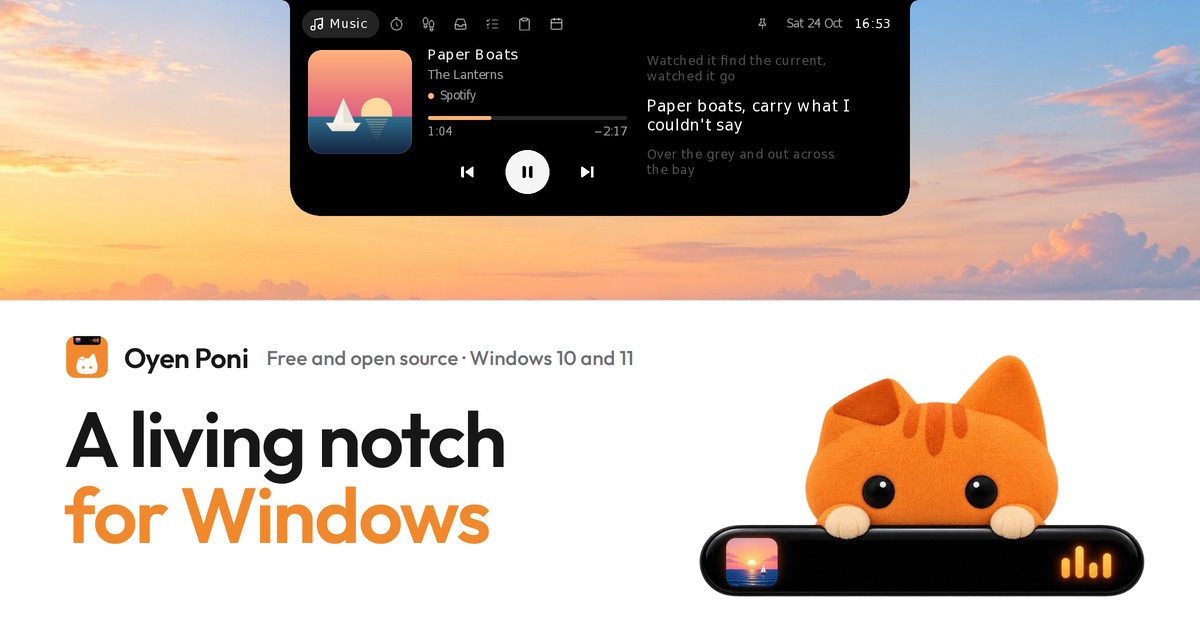
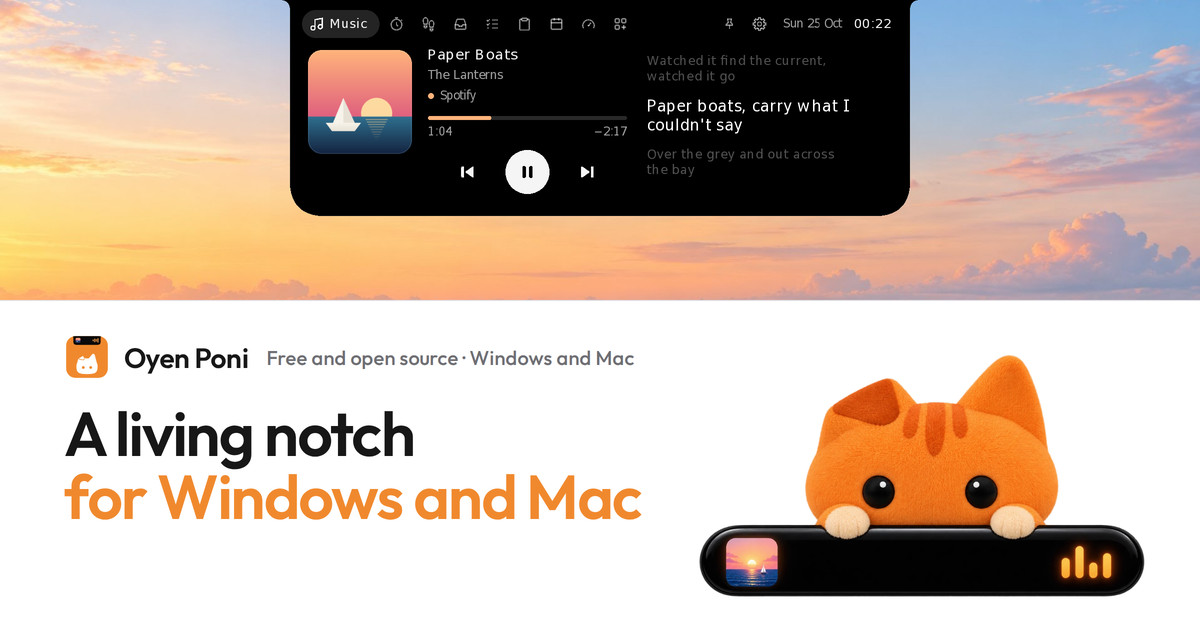
Website and README: Oyen Poni for Windows and Mac (#53)
The page, its share card and the README now say "for Windows and Mac"
instead of Windows alone, now that every release carries the Mac app.

- Website: title, description and link previews name both; the hero says
  Windows 10 and 11, and macOS 14 or later, and that Oyenza money in and
  bills are on Windows. A new "On a Mac, it wraps the notch" section right
  after the hero shows the Mac app's own renders (music, timer and clock
  around a MacBook's notch, the open Music and Today pages below it, in
  Classic and Oyen), what the Mac has and what isn't there yet, and a
  Download for Mac button. Install gets Windows and Mac steps side by side.
  "Your data stays on your PC" becomes "on your computer".
- Share card redrawn ("A living notch for Windows and Mac"), og:image and
  twitter:image ?v=2.
- tools/site_shots.py mac <mac-renders>: cuts the Mac pictures from the mac
  workflow's renders into site/assets/shots/mac/<theme>/.
- README: the tagline names both systems (and drops "your steps", which
  aren't live yet), an "On a Mac" section with the same pictures, Windows
  and Mac install sections, how to build and render on a Mac, and the Mac
  log path in Status.

diff --git a/site/index.html b/site/index.html
@@ -3,8 +3,8 @@
 <head>
 <meta charset="utf-8">
 <meta name="viewport" content="width=device-width, initial-scale=1, viewport-fit=cover">
-<title>Oyen Poni · A living notch for Windows</title>
-<meta name="description" content="Oyen Poni is a free, open-source living notch for Windows 10 and 11: music with synced lyrics, a focus timer, a file shelf your phone can drop into, tasks and your clipboard, one hover away at the top of your screen.">
+<title>Oyen Poni · A living notch for Windows and Mac</title>
+<meta name="description" content="Oyen Poni is a free, open-source living notch for Windows 10 and 11 and macOS 14 or later: music with synced lyrics, a focus timer, a file shelf your phone can drop into, tasks and your clipboard, one hover away at the top of your screen.">
 <link rel="canonical" href="https://lucacadalora.github.io/poni/">
 <!-- Link previews (WhatsApp, X, LinkedIn, Facebook, Slack, Discord...). URLs are
      absolute because the networks read these tags without loading the page. The
@@ -14,17 +14,17 @@
 <meta property="og:site_name" content="Oyen Poni">
 <meta property="og:locale" content="en_US">
 <meta property="og:url" content="https://lucacadalora.github.io/poni/">
-<meta property="og:title" content="Oyen Poni · A living notch for Windows">
-<meta property="og:description" content="A free, open-source island at the top of your Windows screen: music with synced lyrics, a focus timer, a file shelf your phone can drop into, tasks and your clipboard, one hover away.">
-<meta property="og:image" content="https://lucacadalora.github.io/poni/assets/share/oyen-poni-share.jpg?v=1">
+<meta property="og:title" content="Oyen Poni · A living notch for Windows and Mac">
+<meta property="og:description" content="A free, open-source island at the top of your screen, on Windows and Mac: music with synced lyrics, a focus timer, a file shelf your phone can drop into, tasks and your clipboard, one hover away.">
+<meta property="og:image" content="https://lucacadalora.github.io/poni/assets/share/oyen-poni-share.jpg?v=2">
 <meta property="og:image:type" content="image/jpeg">
 <meta property="og:image:width" content="1200">
 <meta property="og:image:height" content="630">
 <meta property="og:image:alt" content="The Oyen Poni island hanging from the top of the screen, open on the Music page with synced lyrics, and Oyen the cat peeking over the island.">
 <meta name="twitter:card" content="summary_large_image">
-<meta name="twitter:title" content="Oyen Poni · A living notch for Windows">
-<meta name="twitter:description" content="A free, open-source island at the top of your Windows screen: music with synced lyrics, a focus timer, a file shelf your phone can drop into, tasks and your clipboard, one hover away.">
-<meta name="twitter:image" content="https://lucacadalora.github.io/poni/assets/share/oyen-poni-share.jpg?v=1">
+<meta name="twitter:title" content="Oyen Poni · A living notch for Windows and Mac">
+<meta name="twitter:description" content="A free, open-source island at the top of your screen, on Windows and Mac: music with synced lyrics, a focus timer, a file shelf your phone can drop into, tasks and your clipboard, one hover away.">
+<meta name="twitter:image" content="https://lucacadalora.github.io/poni/assets/share/oyen-poni-share.jpg?v=2">
 <meta name="twitter:image:alt" content="The Oyen Poni island hanging from the top of the screen, open on the Music page with synced lyrics, and Oyen the cat peeking over the island.">
 <link rel="icon" href="brand/oyen-poni-logo.svg" type="image/svg+xml">
 <link rel="preconnect" href="https://fonts.googleapis.com">
@@ -188,6 +188,15 @@ section { padding-block: 88px; }
 .glass-shot span { font-size: 14px; color: var(--muted); }
 .glass-flip { display: grid; grid-template-columns: repeat(2, minmax(0, 1fr)); gap: 12px; }
 .glass-flip figcaption { padding: 10px 12px 12px; }
+/* the Mac: screen pictures with the menu bar and the camera notch, so they keep their own frame */
+.mac-strips { display: grid; grid-template-columns: repeat(3, minmax(0, 1fr)); gap: 16px; }
+.mac-shot { margin: 0; border-radius: 18px; overflow: hidden; background: var(--bg); border: 1px solid #dfe3ea; }
+.mac-shot img { width: 100%; }
+.mac-shot figcaption { padding: 14px 16px 16px; display: grid; gap: 2px; }
+.mac-shot strong { font: 600 16px/1.3 var(--display); }
+.mac-shot span { font-size: 14px; color: var(--muted); }
+.mac-get { display: grid; gap: 14px; justify-items: start; }
+.mac-get .how { margin-top: 0; }
 .how { margin-top: 18px; font-size: 15px; color: var(--muted); }
 .how kbd { font: 600 13px/1 var(--sans); background: var(--bg); border: 1px solid var(--line); border-bottom-width: 2px; border-radius: 6px; padding: 3px 7px; color: var(--ink); }
 
@@ -214,8 +223,9 @@ section { padding-block: 88px; }
 .steps li::before { content: counter(s); width: 32px; height: 32px; border-radius: 50%; background: var(--panel); border: 1px solid var(--line); display: grid; place-items: center; font: 600 14px/1 var(--display); }
 .steps b { font-weight: 600; }
 .steps p { color: var(--muted); font-size: 15px; }
-.mac-steps { margin-top: 18px; color: var(--muted); font-size: 15px; }
-.mac-steps b { color: var(--ink); font-weight: 600; }
+.install h3.os { font-size: 20px; margin: 0 0 14px; }
+.install h3.os span { font: 400 14px/1.4 var(--sans); color: var(--muted); letter-spacing: 0; margin-left: 6px; }
+.install .steps + h3.os { margin-top: 28px; }
 .where { margin-top: 20px; background: var(--panel); border-radius: 16px; padding: 16px 18px; font-size: 14px; color: #3a3a3e; display: grid; gap: 6px; }
 .where code { font: 13px/1.4 ui-monospace, "Cascadia Mono", Consolas, monospace; background: var(--bg); border: 1px solid var(--line); padding: 1px 6px; border-radius: 6px; word-break: break-all; }
 
@@ -226,7 +236,7 @@ footer a { color: var(--muted); }
 
 @media (max-width: 900px) {
   .hero-copy, .music, .music.flip, .theme-notes, .oyenza, .install { grid-template-columns: minmax(0, 1fr); }
-  .compare, .facts, .glass-shots { grid-template-columns: minmax(0, 1fr); }
+  .compare, .facts, .glass-shots, .mac-strips { grid-template-columns: minmax(0, 1fr); }
   .hero-oyen { max-width: 320px; }
   .oyenza { padding: 32px 24px; }
 }
@@ -248,6 +258,7 @@ footer a { color: var(--muted); }
     <a class="brand" href="#top"><img src="brand/oyen-poni-logo.svg" alt="" width="32" height="32">Oyen Poni</a>
     <nav aria-label="Sections">
       <a href="#features">Features</a>
+      <a href="#mac">Mac</a>
       <a href="#oyen">Oyen theme</a>
       <a href="#glass">Glass</a>
       <a href="#oyenza">Oyenza</a>
@@ -277,9 +288,9 @@ footer a { color: var(--muted); }
     </div>
     <div class="wrap hero-copy">
       <div>
-        <p class="eyebrow">For Windows 10 and 11</p>
-        <h1>A living notch <span>for Windows</span></h1>
-        <p class="lead">Oyen Poni hangs a small island from the top of your screen. It shows what is happening, and opens into quick pages when you point at it: music with synced lyrics, a focus timer, a file shelf your phone can drop into, tasks, your clipboard, and money in and bills due from Oyenza.</p>
+        <p class="eyebrow">For Windows 10 and 11, and macOS 14 or later</p>
+        <h1>A living notch <span>for Windows and Mac</span></h1>
+        <p class="lead">Oyen Poni hangs a small island from the top of your screen. It shows what is happening, and opens into quick pages when you point at it: music with synced lyrics, a focus timer, a file shelf your phone can drop into, tasks, your clipboard and, on Windows, money in and bills due from Oyenza.</p>
         <div class="ctas">
           <a class="btn btn-dark" href="https://github.com/lucacadalora/poni/releases/latest/download/Oyen-Poni-Setup.exe">
             <svg viewBox="0 0 24 24" fill="currentColor" aria-hidden="true"><path d="M2 2h9.2v9.2H2zm10.8 0H22v9.2h-9.2zM2 12.8h9.2V22H2zm10.8 0H22V22h-9.2z"/></svg>
@@ -300,6 +311,60 @@ footer a { color: var(--muted); }
       <img class="hero-oyen" src="brand/art/oyen-poni-peek.webp" alt="Oyen, an orange plush cat, peeking over the island while a song plays" width="1200" height="661">
     </div>
   </div>
+
+  <section id="mac">
+    <div class="wrap">
+      <div class="head">
+        <p class="eyebrow">New · Oyen Poni for Mac</p>
+        <h2>On a Mac, it wraps the notch</h2>
+        <p>On a MacBook with a camera notch, the island lives around it: what's playing sits either side of the camera, and the island opens downward from the notch when you point at it. On a Mac without a notch, or on another display, it hangs from the top of the screen as it does on Windows.</p>
+      </div>
+      <div class="mac-strips">
+        <figure class="mac-shot">
+          <img class="look-classic" src="assets/shots/mac/classic/media-activity.webp" alt="A MacBook's menu bar while music plays: the album art left of the camera notch, the equalizer on its right" width="420" height="68" loading="lazy">
+          <img class="look-oyen" src="assets/shots/mac/oyen/media-activity.webp" alt="The same in the Oyen theme: cream ears around the black notch, the album art on the left and Oyen on the right" width="420" height="68" loading="lazy">
+          <figcaption><strong>Music playing</strong><span>The album art left of the camera, the beat on its right.</span></figcaption>
+        </figure>
+        <figure class="mac-shot">
+          <img class="look-classic" src="assets/shots/mac/classic/timer-activity.webp" alt="A focus timer around the notch: its progress ring on the left, the minutes left on the right" width="420" height="68" loading="lazy">
+          <img class="look-oyen" src="assets/shots/mac/oyen/timer-activity.webp" alt="The focus timer around the notch in the Oyen theme" width="420" height="68" loading="lazy">
+          <figcaption><strong>Focus timer</strong><span>The ring on one side of the camera, the minutes left on the other.</span></figcaption>
+        </figure>
+        <figure class="mac-shot">
+          <img class="look-classic" src="assets/shots/mac/classic/idle-clock.webp" alt="The resting island on a MacBook: the time to the right of the notch" width="420" height="68" loading="lazy">
+          <img class="look-oyen" src="assets/shots/mac/oyen/idle-clock.webp" alt="The resting island in the Oyen theme: Oyen peeking left of the notch, the time on its right" width="420" height="68" loading="lazy">
+          <figcaption><strong>Resting</strong><span>The clock sits beside the notch. The other idle looks hide inside it until you point there.</span></figcaption>
+        </figure>
+      </div>
+      <div class="pages-2">
+        <figure class="mac-shot">
+          <img class="look-classic" src="assets/shots/mac/classic/page-media.webp" alt="The open island hanging below a MacBook's notch: the Music page with synced lyrics" width="710" height="288" loading="lazy">
+          <img class="look-oyen" src="assets/shots/mac/oyen/page-media.webp" alt="The open island in the Oyen theme, the black notch at the top of its cream panel: the Music page with synced lyrics" width="710" height="288" loading="lazy">
+          <figcaption><strong>Music, with the words</strong><span>Music and Spotify, with synced lyrics and the reading under Japanese, Korean and Chinese lines.</span></figcaption>
+        </figure>
+        <figure class="mac-shot">
+          <img class="look-classic" src="assets/shots/mac/classic/page-today.webp" alt="The Today page below the notch: the date and calendar beside CPU, memory, disk and battery" width="710" height="304" loading="lazy">
+          <img class="look-oyen" src="assets/shots/mac/oyen/page-today.webp" alt="The Today page in the Oyen theme below the notch" width="710" height="304" loading="lazy">
+          <figcaption><strong>Today</strong><span>The date and calendar, with your Mac's CPU, memory, disk and battery.</span></figcaption>
+        </figure>
+      </div>
+      <div class="theme-notes">
+        <ul>
+          <li><span>Music and Spotify, with synced lyrics from LRCLIB, or Apple Music's own with your token, and the reading under Japanese, Korean and Chinese lines.</span></li>
+          <li><span>The focus timer, the Shelf with Phone drop over the same Wi-Fi, tasks and clipboard history.</span></li>
+          <li><span>Pop-ups for volume and charging, the Classic and Oyen themes, and start at login. Every option is in the menu bar, under Oyen's mark.</span></li>
+          <li><span>Not on the Mac yet: Glass, paired phones, Oyenza sign-in, add-ons, Show over games, headphone pop-ups and hiding in full-screen apps.</span></li>
+        </ul>
+        <div class="mac-get">
+          <a class="btn btn-dark" data-release="mac-link" href="https://github.com/lucacadalora/poni/releases/latest/download/Oyen-Poni-Mac.dmg">
+            <svg viewBox="0 0 24 24" fill="currentColor" aria-hidden="true"><path d="M12.152 6.896c-.948 0-2.415-1.078-3.96-1.04-2.04.027-3.91 1.183-4.961 3.014-2.117 3.675-.546 9.103 1.519 12.09 1.013 1.454 2.208 3.09 3.792 3.039 1.52-.065 2.09-.987 3.935-.987 1.831 0 2.35.987 3.96.948 1.637-.026 2.676-1.48 3.676-2.948 1.156-1.688 1.636-3.325 1.662-3.415-.039-.013-3.182-1.221-3.22-4.857-.026-3.04 2.48-4.494 2.597-4.559-1.429-2.09-3.623-2.324-4.39-2.376-2-.156-3.675 1.09-4.61 1.09zM15.53 3.83c.843-1.012 1.4-2.427 1.245-3.83-1.207.052-2.662.805-3.532 1.818-.78.896-1.454 2.338-1.273 3.714 1.338.104 2.715-.688 3.559-1.701"/></svg>
+            Download for Mac
+          </a>
+          <p class="how">macOS 14 or later, on Apple silicon or Intel. One app for both, <span data-release="mac-size">10.5&nbsp;MB</span>. It isn't signed with an Apple Developer ID yet, so the first time, macOS holds it back until you allow it in Privacy &amp; Security: <a href="#install">see Install</a>.</p>
+        </div>
+      </div>
+    </div>
+  </section>
 
   <section id="features">
     <div class="wrap">
@@ -656,7 +721,7 @@ footer a { color: var(--muted); }
     <div class="wrap">
       <div class="head">
         <p class="eyebrow">Private by design</p>
-        <h2>Your data stays on your PC</h2>
+        <h2>Your data stays on your computer</h2>
       </div>
       <div class="facts">
         <div class="fact"><h3>No account needed</h3><p>No sign-up and no tracking. Tasks, shelf and focus history are files in your own user folder.</p></div>
@@ -673,12 +738,18 @@ footer a { color: var(--muted); }
           <p class="eyebrow">Install</p>
           <h2>Ready in under a minute</h2>
         </div>
+        <h3 class="os">On Windows <span>10 and 11</span></h3>
         <ol class="steps">
           <li><div><b>Download the installer</b><p>Oyen-Poni-Setup.exe, from the latest release on GitHub. A portable zip is on the <a href="https://github.com/lucacadalora/poni/releases">Releases</a> page too.</p></div></li>
           <li><div><b>Run it</b><p>It installs just for you and needs no admin rights.</p></div></li>
           <li><div><b>If Windows warns you</b><p>Builds aren't code-signed yet, so SmartScreen may say "Windows protected your PC". Choose More info, then Run anyway. If Smart App Control is on, Windows won't run unsigned apps at all; a Microsoft Store version is on the way.</p></div></li>
         </ol>
-        <p class="mac-steps"><b>On a Mac</b> (macOS 14 or later, Apple silicon or Intel): open Oyen-Poni-Mac.dmg and drag Oyen Poni into Applications. It isn't signed with an Apple Developer ID yet, so the first time macOS warns you, click Done, then open System Settings › Privacy &amp; Security and click Open Anyway. On a Mac the music page follows Music and Spotify, and Glass, paired phones, Oyenza sign-in and add-ons aren't there yet.</p>
+        <h3 class="os">On a Mac <span>macOS 14 or later, Apple silicon or Intel</span></h3>
+        <ol class="steps">
+          <li><div><b>Download the app</b><p>Oyen-Poni-Mac.dmg, from the same release.</p></div></li>
+          <li><div><b>Drag it into Applications</b><p>Open the DMG and drag Oyen Poni into the Applications folder.</p></div></li>
+          <li><div><b>Allow it the first time</b><p>It isn't signed with an Apple Developer ID yet, so macOS warns you the first time you open it. Click Done, then open System Settings › Privacy &amp; Security and click Open Anyway.</p></div></li>
+        </ol>
         <div class="ctas" style="display:flex;gap:12px;flex-wrap:wrap;margin-top:24px">
           <a class="btn btn-dark" href="https://github.com/lucacadalora/poni/releases/latest/download/Oyen-Poni-Setup.exe">
             <svg viewBox="0 0 24 24" fill="currentColor" aria-hidden="true"><path d="M2 2h9.2v9.2H2zm10.8 0H22v9.2h-9.2zM2 12.8h9.2V22H2zm10.8 0H22V22h-9.2z"/></svg>

diff --git a/tools/share_card.html b/tools/share_card.html
@@ -38,7 +38,7 @@ body {
 .name { display: flex; align-items: center; gap: 14px; font-weight: 600; font-size: 28px; letter-spacing: -0.01em; }
 .name img { width: 46px; height: 46px; }
 .name small { font-weight: 500; font-size: 20px; letter-spacing: 0; color: var(--muted); margin-left: 4px; }
-h1 { margin: 20px 0 0; font-weight: 600; font-size: 78px; line-height: 0.98; letter-spacing: -0.025em; }
+h1 { margin: 22px 0 0; font-weight: 600; font-size: 62px; line-height: 1.02; letter-spacing: -0.025em; }
 h1 span { color: var(--orange); }
 .oyen { position: absolute; right: 52px; bottom: 30px; width: 452px; }
 </style>
@@ -46,8 +46,8 @@ h1 span { color: var(--orange); }
 <body>
 <div class="sky"><img class="island" src="../site/assets/shots/classic/page-media.webp" alt=""></div>
 <div class="copy">
-  <div class="name"><img src="../docs/brand/oyen-poni-logo.svg" alt="">Oyen Poni<small>Free and open source · Windows 10 and 11</small></div>
-  <h1>A living notch<br><span>for Windows</span></h1>
+  <div class="name"><img src="../docs/brand/oyen-poni-logo.svg" alt="">Oyen Poni<small>Free and open source · Windows and Mac</small></div>
+  <h1>A living notch<br><span>for Windows and Mac</span></h1>
 </div>
 <img class="oyen" src="../docs/brand/art/oyen-poni-peek.webp" alt="">
 </body>

diff --git a/tools/site_shots.py b/tools/site_shots.py
@@ -38,6 +38,16 @@ glass is made of, so they are kept whole, as glass/<run>-<state>.webp:
     python3 tools/site_shots.py selftest-glass-dark glass dark
     python3 tools/site_shots.py selftest-glass-flip glass flip
 
+The Mac pictures come from the mac workflow's `mac-renders` artifact (the
+Mac app's own `--render`, 200 %, Classic and Oyen, with and without a
+MacBook's notch). They show the island with the menu bar and the camera
+notch around it, so they are kept as screen pictures, as
+mac/<theme>/<state>.webp; the resting states are cut to the middle of the
+menu bar:
+
+    gh run download <mac run> -R lucacadalora/poni -n mac-renders -D mac-renders
+    python3 tools/site_shots.py mac-renders mac
+
 The self-test writes NAME.png (the island's canvas on a test gradient, with
 margins) and NAME-alpha.png (the canvas's own alpha). This cuts the canvas out,
 takes its alpha from NAME-alpha.png and removes the gradient from the
@@ -63,6 +73,11 @@ KEEP = {
 # By run: the open island in light and dark mode, and the resting island
 # over a bright page and over a dark one with Windows still in light mode.
 GLASS_KEEP = {"light": {"page-media", "media-activity"}, "dark": {"page-media"}, "flip": {"media-activity"}}
+# Mac pictures, with the notch: the resting states sit in the menu bar's line,
+# cut to its middle (MAC_STRIP, in pixels at 200 %); the open pages hang below
+# the notch and are kept whole.
+MAC_KEEP = {"idle-clock", "media-activity", "timer-activity", "page-media", "page-today"}
+MAC_STRIP = (840, 136)
 
 
 def cut(shot: Path, alpha: Path) -> Image.Image:
@@ -97,9 +112,31 @@ def glass(src: Path, run: str) -> None:
         print(f"glass/{run}-{name}.webp  {img.width}x{img.height}")
 
 
+def mac(src: Path) -> None:
+    for shot in sorted(src.glob("[0-9][0-9]-*-notch.png")):
+        name = re.sub(r"^\d\d-", "", shot.stem)[: -len("-notch")]
+        theme = "classic"
+        if name.endswith("-oyen"):
+            name, theme = name[: -len("-oyen")], "oyen"
+        if name not in MAC_KEEP:
+            continue
+        img = Image.open(shot).convert("RGB")
+        if not name.startswith("page-"):
+            w, h = MAC_STRIP
+            x0 = (img.width - w) // 2
+            img = img.crop((x0, 0, x0 + w, h))
+        dst = ROOT / "site" / "assets" / "shots" / "mac" / theme
+        dst.mkdir(parents=True, exist_ok=True)
+        img.save(dst / f"{name}.webp", quality=90, method=6)
+        print(f"mac/{theme}/{name}.webp  {img.width}x{img.height}")
+
+
 def main() -> None:
     if len(sys.argv) == 4 and sys.argv[2] == "glass" and sys.argv[3] in ("light", "dark", "flip"):
         glass(Path(sys.argv[1]), sys.argv[3])
+        return
+    if len(sys.argv) == 3 and sys.argv[2] == "mac":
+        mac(Path(sys.argv[1]))
         return
     if len(sys.argv) not in (3, 4) or sys.argv[2] not in ("classic", "oyen"):
         sys.exit(__doc__)

diff --git a/README.md b/README.md
@@ -2,7 +2,7 @@
 
 <h1 align="center">Oyen Poni</h1>
 
-<p align="center"><b>A living notch for Windows 10 and 11.</b><br>Music with synced lyrics, a focus timer, your steps, a file shelf, tasks and your clipboard, one hover away.</p>
+<p align="center"><b>A living notch for Windows and Mac.</b><br>Music with synced lyrics, a focus timer, a file shelf, tasks and your clipboard, one hover away.<br>Windows 10 and 11 · macOS 14 or later</p>
 
 <p align="center">
[1 lines of base64/hex data omitted]
@@ -20,9 +20,9 @@
 
 <p align="center"><img src="docs/brand/readme-hero.webp" width="880" alt="The open island hanging from the top of the screen, showing the Music page with synced lyrics, next to Oyen peeking over a playing island"></p>
 
-A small black island hangs from the top of your screen. It shows what's happening (music, timers, volume, headphones connecting), and when you point at it, it opens into a set of quick pages.
+A small black island hangs from the top of your screen. It shows what's happening (music, timers, volume, headphones connecting), and when you point at it, it opens into a set of quick pages. On a MacBook it wraps the camera notch ([On a Mac](#on-a-mac)).
 
-Native Rust, no web view, no runtime, around 1.7 MB, and **zero CPU while nothing is moving**. It draws on the GPU, in step with your display's refresh rate (60, 144 or 240 Hz). No accounts, no tracking: your data stays on your PC.
+Native Rust, no web view, no runtime, around 1.7 MB, and **zero CPU while nothing is moving**. It draws on the GPU, in step with your display's refresh rate (60, 144 or 240 Hz). No accounts, no tracking: your data stays on your computer.
 
 | Collapsed | |
 |---|---|
@@ -89,9 +89,26 @@ The frame rate is counted the way Intel's PresentMon and Xbox Game Bar count it:
 
 Windows lets only admins and the **Performance Log Users** group read that log. The first time, System › Games asks for a one-time OK: an admin prompt adds your Windows account to that group (Xbox Game Bar's FPS counter asks for the same), and Windows applies it the next time you sign in. Until then the FPS slot shows a dash and the rest works. To undo it, remove your account from Performance Log Users in Computer Management, or run `net localgroup "Performance Log Users" <your user name> /delete` as an admin. A game in exclusive full-screen mode still covers the island, as it covers every window.
 
+## On a Mac
+
+On a MacBook with a camera notch, the island lives around it: what's playing sits either side of the camera (the album art on the left and the beat on the right, a timer's ring and its minutes the same way), and the island opens downward from the notch when you point at it. On a Mac without a notch, or on another display, it hangs from the top of the screen as it does on Windows.
+
+| | |
+|---|---|
+| ![Music playing on a MacBook: the album art left of the notch, the equalizer on its right](site/assets/shots/mac/classic/media-activity.webp) | ![The Oyen theme: cream ears around the black notch, the album art on the left and Oyen on the right](site/assets/shots/mac/oyen/media-activity.webp) |
+| ![A focus timer around the notch: the ring on the left, the minutes on the right](site/assets/shots/mac/classic/timer-activity.webp) | ![Resting in the Oyen theme: Oyen left of the notch, the time on its right](site/assets/shots/mac/oyen/idle-clock.webp) |
+
+![The open island hanging below the notch in the Oyen theme: the Music page with synced lyrics](site/assets/shots/mac/oyen/page-media.webp)
+
+The Mac app has the island, Music and Spotify with synced lyrics (and Apple Music's own with [your token](#apple-music-lyrics)), the focus timer, the Shelf with [Phone drop](#phone-drop) over the same Wi-Fi, tasks, clipboard history, Today with your Mac's CPU, memory, disk and battery, pop-ups for volume and charging, the Classic and Oyen themes, and start at login. Every option is in the menu bar, under Oyen's mark. Not on the Mac yet: Glass, paired phones, Oyenza sign-in, add-ons, Show over games, headphone pop-ups and hiding in full-screen apps.
+
+These pictures come from the Mac app itself (`poni --render <dir> --notch`, run by the `mac` workflow on a macOS runner with a MacBook's notch drawn in).
+
 ## Install
 
 <img src="docs/brand/art/oyen-poni-peek.webp" width="260" align="right" alt="Oyen peeking over the island while it plays music">
+
+### On Windows
 
 **[Download Oyen-Poni-Setup.exe](https://github.com/lucacadalora/poni/releases/latest/download/Oyen-Poni-Setup.exe)** and run it. It installs just for you and needs no admin rights. Older versions and a portable zip are on the [Releases](https://github.com/lucacadalora/poni/releases) page.
 
@@ -99,7 +116,9 @@ Builds aren't code-signed yet, so Windows SmartScreen may say "Windows protected
 
 Your data lives in `%APPDATA%\Poni\`, and cache plus log in `%LOCALAPPDATA%\Poni\`. Uninstalling removes the app, cache and log, and keeps your data.
 
-**On a Mac** (macOS 14 or later, Apple silicon or Intel): **[download Oyen-Poni-Mac.dmg](https://github.com/lucacadalora/poni/releases/latest/download/Oyen-Poni-Mac.dmg)**, open it and drag Oyen Poni into Applications. It isn't signed with an Apple Developer ID yet, so the first time macOS warns you, click **Done**, then open **System Settings → Privacy & Security** and click **Open Anyway**. On a Mac the music page follows Music and Spotify, and Glass, paired phones, Oyenza sign-in and add-ons aren't there yet. Your data lives in `~/Library/Application Support/Poni/`, the log in `~/Library/Logs/Poni/`.
+### On a Mac
+
+macOS 14 or later, Apple silicon or Intel (one app for both): **[download Oyen-Poni-Mac.dmg](https://github.com/lucacadalora/poni/releases/latest/download/Oyen-Poni-Mac.dmg)**, open it and drag Oyen Poni into Applications. It isn't signed with an Apple Developer ID yet, so the first time macOS warns you, click **Done**, then open **System Settings → Privacy & Security** and click **Open Anyway**. What's on the Mac so far: [On a Mac](#on-a-mac). Your data lives in `~/Library/Application Support/Poni/`, the log in `~/Library/Logs/Poni/`.
 
 ## Apple Music lyrics
 
@@ -183,7 +202,7 @@ Oyen Poni is a Cargo workspace:
 |---|---|
 | `crates/poni-core` | Pure logic (springs, lyrics parsing, Pomodoro, steps, tasks, settings…), Phone drop's small web server and paired phone drop (pairing, signed messages, the WebRTC link). Unit-tested on any OS. |
 | `server` | The meeting server and phone page for paired phones (`drop.oyenza.com`); Node, no dependencies. |
-| `crates/poni` | The Windows app: Win32 + Direct2D + WinRT through [windows-rs](https://github.com/microsoft/windows-rs). |
+| `crates/poni` | The app. On Windows: Win32 + Direct2D + WinRT through [windows-rs](https://github.com/microsoft/windows-rs). On a Mac (`src/mac/`): AppKit, Core Graphics and Core Text through [objc2](https://github.com/madsmtm/objc2), drawing the same pages. |
 
 On Windows, with Rust stable and the MSVC toolchain:
 
@@ -199,6 +218,15 @@ cargo wcheck                          # type-check the Windows app
 cargo wbuild                          # target/x86_64-pc-windows-gnu/release/poni.exe
 NSIS_HOST=user@linux-box tools/package.sh   # exe + portable zip + installer into dist/
 ```
+
+On a Mac, with Rust stable:
+
+```
+cargo build -p poni --release        # target/release/poni
+target/release/poni --render shots --notch   # every island state as a picture, with a MacBook's notch
+```
+
+`tools/make_mac_app.sh` turns the Apple silicon and Intel builds into `Oyen Poni.app` and its DMG (the `mac` workflow does it for every pull request, push to main and tag). From Linux or Windows, `cargo mcheck` type-checks the Mac app (`rustup target add aarch64-apple-darwin`).
 
 ### Testing without clicking around
 
@@ -216,7 +244,7 @@ See [ARCHITECTURE.md](ARCHITECTURE.md) for how the pieces fit: threads, the rend
 
 ### Website
 
-The website is `site/index.html`, published with GitHub Pages by `.github/workflows/pages.yml` whenever `site/` or `docs/brand/` changes on main. Every release updates it too ([AGENTS.md](AGENTS.md#every-release-updates-the-website) has the checklist). A page that names a version not released yet waits until that release is published, and a release whose page wasn't updated opens an issue. Preview it with `tools/build_site.sh && python3 -m http.server -d _site 8000`. Its island screenshots come from the self-test at 200 % in both themes (`tools/site_shots.py`).
+The website is `site/index.html`, published with GitHub Pages by `.github/workflows/pages.yml` whenever `site/` or `docs/brand/` changes on main. Every release updates it too ([AGENTS.md](AGENTS.md#every-release-updates-the-website) has the checklist). A page that names a version not released yet waits until that release is published, and a release whose page wasn't updated opens an issue. Preview it with `tools/build_site.sh && python3 -m http.server -d _site 8000`. Its island screenshots come from the self-test at 200 % in both themes, and its Mac pictures from the `mac` workflow's renders (`tools/site_shots.py`).
 
 ### Download stats
 
@@ -224,7 +252,7 @@ The website is `site/index.html`, published with GitHub Pages by `.github/workfl
 
 ## Status
 
-Early, but in daily use on Windows 11. Most rough edges are in places a test machine can't fully exercise: specific media players, Bluetooth devices, and multi-monitor setups. Issues and pull requests are welcome. Please attach `%LOCALAPPDATA%\Poni\poni.log` when something misbehaves.
+Early, but in daily use on Windows 11. The Mac app is newer: it runs on GitHub's macOS runners on every change, and a real MacBook's notch, music apps and drag and drop are where it most needs reports. Most rough edges are in places a test machine can't fully exercise: specific media players, Bluetooth devices, and multi-monitor setups. Issues and pull requests are welcome. Please attach `%LOCALAPPDATA%\Poni\poni.log` (on a Mac, `~/Library/Logs/Poni/poni.log`) when something misbehaves.
 
 ## Credits
 
